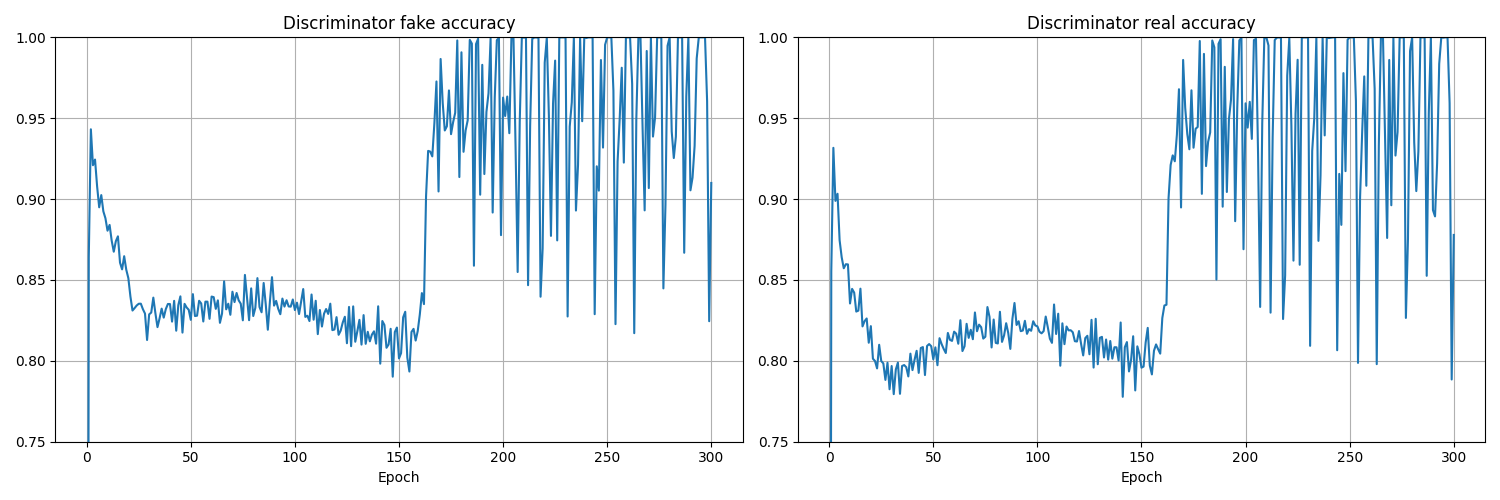
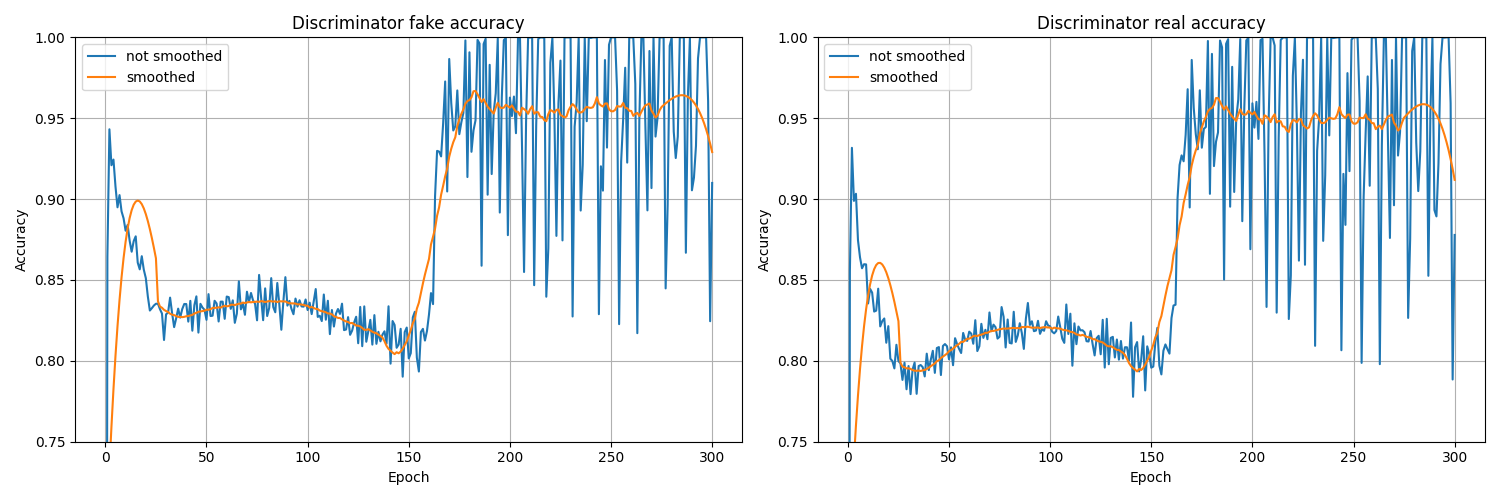
add plotting scripts + create plots + update readme

diff --git a/plotting scripts/PlotDiscriminatorLosses.py b/plotting scripts/PlotDiscriminatorLosses.py
@@ -1,7 +1,10 @@
 from LoadDataframe import *
 from matplotlib import pyplot as plt
 
+from scipy.signal import savgol_filter
+
 import seaborn as sns
+import numpy as np
 
 def main():
     log_dir = "../logs"
@@ -10,14 +13,28 @@ def main():
 
     fig, axes = plt.subplots(1, 2, figsize=(15,5))
     
-    lineplot_1 = sns.lineplot(data=df.loc[:, ["discriminator fake loss"]], ax=axes[0], legend=None, label="not smoothed")
+    df1 = df.rename(columns={"discriminator fake loss": "not smoothed"})
+    sns.lineplot(data=df1.loc[:, ["not smoothed"]], ax=axes[0])
     axes[0].set_title("Discriminator fake loss")
-    #lineplot_1.set(ylim=(0.5, 0.7))
+    data = df.loc[:, ["discriminator fake loss"]].to_numpy()
+    data = np.reshape(data, newshape=(-1))
+   
+    smoothed = savgol_filter(data, 51, 3)
+    axes[0].plot(smoothed, label="smoothed")
+    axes[0].legend()
+    axes[0].set_ylabel("Loss")
 
 
-    lineplot_2 = sns.lineplot(data=df.loc[:, ["discriminator real loss"]], ax=axes[1], legend=None, label="not smoothed")
+    df1 = df.rename(columns={"discriminator real loss": "not smoothed"})
+    sns.lineplot(data=df1.loc[:, ["not smoothed"]], ax=axes[1])
     axes[1].set_title("Discriminator real loss")
-    #lineplot_2.set(ylim=(0.5, 0.7))
+    data = df.loc[:, ["discriminator real loss"]].to_numpy()
+    data = np.reshape(data, newshape=(-1))
+   
+    smoothed = savgol_filter(data, 51, 3)
+    axes[1].plot(smoothed, label="smoothed")
+    axes[1].legend()
+    axes[1].set_ylabel("Loss")
 
     # grid
     for ax in axes.flatten():

diff --git a/plotting scripts/PlotDiscriminatorAccuracy.py b/plotting scripts/PlotDiscriminatorAccuracy.py
@@ -1,7 +1,10 @@
 from LoadDataframe import *
 from matplotlib import pyplot as plt
 
+from scipy.signal import savgol_filter
+
 import seaborn as sns
+import numpy as np
 
 
 def main():
@@ -11,12 +14,28 @@ def main():
 
     fig, axes = plt.subplots(1, 2, figsize=(15,5))
     
-    lineplot_1 = sns.lineplot(data=df.loc[:, ["discriminator fake accuracy"]], ax=axes[0], legend=None)
+    df1 = df.rename(columns={"discriminator fake accuracy": "not smoothed"})
+    lineplot_1 = sns.lineplot(data=df1.loc[:, ["not smoothed"]], ax=axes[0])
     axes[0].set_title("Discriminator fake accuracy")
+    data = df.loc[:, ["discriminator fake accuracy"]].to_numpy()
+    data = np.reshape(data, newshape=(-1))
+   
+    smoothed = savgol_filter(data, 51, 3)
+    axes[0].plot(smoothed, label="smoothed")
+    axes[0].legend()
+    axes[0].set_ylabel("Accuracy")
     lineplot_1.set(ylim=(0.75, 1))
 
-    lineplot_2 = sns.lineplot(data=df.loc[:, ["discriminator real accuracy"]], ax=axes[1], legend=None)
+    df1 = df.rename(columns={"discriminator real accuracy": "not smoothed"})
+    lineplot_2 = sns.lineplot(data=df1.loc[:, ["not smoothed"]], ax=axes[1])
     axes[1].set_title("Discriminator real accuracy")
+    data = df.loc[:, ["discriminator real accuracy"]].to_numpy()
+    data = np.reshape(data, newshape=(-1))
+   
+    smoothed = savgol_filter(data, 51, 3)
+    axes[1].plot(smoothed, label="smoothed")
+    axes[1].legend()
+    axes[1].set_ylabel("Accuracy")
     lineplot_2.set(ylim=(0.75, 1))
 
     # grid

diff --git a/plotting scripts/PlotGeneratorDiscriminatorLoss.py b/plotting scripts/PlotGeneratorDiscriminatorLoss.py
@@ -1,7 +1,10 @@
 from LoadDataframe import *
 from matplotlib import pyplot as plt
 
+from scipy.signal import savgol_filter
+
 import seaborn as sns
+import numpy as np
 
 def main():
     log_dir = "../logs"
@@ -10,14 +13,28 @@ def main():
     
     fig, axes = plt.subplots(1, 2, figsize=(15,5))
     
-    lineplot_1 = sns.lineplot(data=df.loc[:, ["discriminator loss"]], ax=axes[0], legend=None)
+    df1 = df.rename(columns={"discriminator loss": "not smoothed"})
+    sns.lineplot(data=df1.loc[:, ["not smoothed"]], ax=axes[0])
     axes[0].set_title("Discriminator loss")
-    #lineplot_1.set(ylim=(0.9, 1.4))
+    data = df.loc[:, ["discriminator loss"]].to_numpy()
+    data = np.reshape(data, newshape=(-1))
+   
+    smoothed = savgol_filter(data, 51, 3)
+    axes[0].plot(smoothed, label="smoothed")
+    axes[0].legend()
+    axes[0].set_ylabel("Loss")
 
 
-    lineplot_2 = sns.lineplot(data=df.loc[:, ["generator classic loss"]], ax=axes[1], legend=None)
+    df1 = df.rename(columns={"generator classic loss": "not smoothed"})
+    sns.lineplot(data=df1.loc[:, ["not smoothed"]], ax=axes[1])
     axes[1].set_title("Generator loss")
-    #lineplot_2.set(ylim=(0.9, 1.4))
+    data = df.loc[:, ["generator classic loss"]].to_numpy()
+    data = np.reshape(data, newshape=(-1))
+   
+    smoothed = savgol_filter(data, 51, 3)
+    axes[1].plot(smoothed, label="smoothed")
+    axes[1].legend()
+    axes[1].set_ylabel("Loss")
 
 
     # grid

diff --git a/plotting scripts/GeneratedImgsWhileTraining.py b/plotting scripts/GeneratedImgsWhileTraining.py
@@ -1,0 +1,42 @@
+from LoadDataframe import *
+from matplotlib import pyplot as plt
+
+def main():
+    log_dir = "../logs"
+
+    df = load_dataframe(log_dir)
+
+    img_list = []
+    for epoch in range(0, 300 + 10, 10):
+        imgs = df.loc[epoch, "generated imgs"]
+        img = imgs[0]
+
+        fig, axes = plt.subplots(nrows=1, ncols=3)
+
+        input_img = img[0:, :256, :]
+        generated_img = img[0:, 256:512, :]
+        ground_truth = img[0:, 512:, :]
+        
+        axes[0].imshow(input_img)
+        axes[0].set_title("Input")
+        axes[0].axis("off")
+
+        axes[1].imshow(generated_img)
+        axes[1].set_title("Generated image")
+        axes[1].axis("off")
+
+        axes[2].imshow(ground_truth)
+        axes[2].set_title("Ground truth")
+        axes[2].axis("off")
+
+        fig.suptitle(f"Epoch: {epoch}")
+        plt.tight_layout()
+        plt.savefig(f"../plots/generated images while training/epoch_{epoch}.png", bbox_inches='tight')
+        plt.close()
+   
+
+if __name__ == "__main__":
+    try:
+        main()
+    except KeyboardInterrupt:
+        print("KeyboardInterrupt received")

diff --git a/plotting scripts/CreateImgs.py b/plotting scripts/CreateImgs.py
@@ -11,10 +11,6 @@ from matplotlib import pyplot as plt
 
 def main():
 
-
-    
-    
-
     test_ds = tf.keras.utils.image_dataset_from_directory(
             validation_split=0.1,
             subset="validation",

diff --git a/README.md b/README.md
@@ -2,10 +2,20 @@
 
 
 ## Evaluation
+### Generator and discriminator loss
+
+<img src="./plots/GeneratorDiscriminatorLoss.png" width="650" height="200">
+
+### Discriminator Loss
+
+<img src="./plots/DiscriminatorLosses.png" width="650" height="200">
+
+### Discriminator Accuracy
+<img src="./plots/DiscriminatorAccuracy.png" width="650" height="200">
 
 
 ### Generated images
-Let's generate 100 images after training the GAN i.e. after 300 epochs.
+Let's generate some images after training the GAN i.e. after 300 epochs.
 
 <img src="./plots/generated images/4.png" width="500" height="350">
 <img src="./plots/generated images/12.png" width="500" height="350">
@@ -18,3 +28,13 @@ Let's generate 100 images after training the GAN i.e. after 300 epochs.
 <img src="./plots/generated images/30.png" width="500" height="350">
 <img src="./plots/generated images/43.png" width="500" height="350">
 <img src="./plots/generated images/58.png" width="500" height="350">
+
+### Generated images while training
+
+<img src="./plots/generated images while training/epoch_0.png" width="500" height="300">
+<img src="./plots/generated images while training/epoch_50.png" width="500" height="300">
+<img src="./plots/generated images while training/epoch_100.png" width="500" height="300">
+<img src="./plots/generated images while training/epoch_150.png" width="500" height="300">
+<img src="./plots/generated images while training/epoch_200.png" width="500" height="300">
+<img src="./plots/generated images while training/epoch_250.png" width="500" height="300">
+<img src="./plots/generated images while training/epoch_300.png" width="500" height="300">
